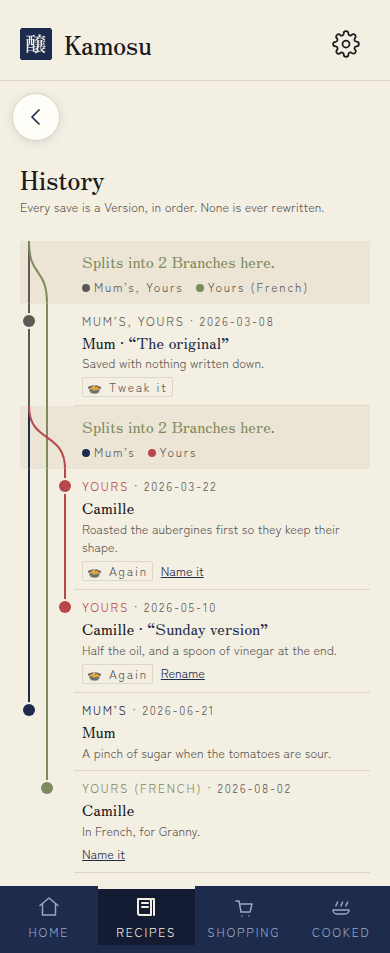
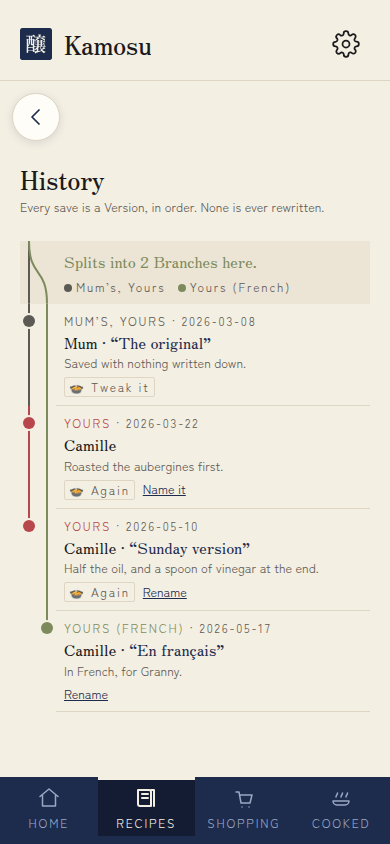
docs: the README keeps its six pictures, with the History and a cooking in two of them
The commit before this one put eight pictures at the top, dropped the recipe
with its photograph from first place, and rewrote more of the README than was
asked. This brings it back to the layout it had:

- The pictures are the six there were, in their places. On the phone, History
  stands where the recipe was and a cooking with its changed lines where
  Shopping was. Both are the height of the others.
- The History holds a Translation.
- The opening says, in order, that every version is kept, that everyone
  writes in their own Cookbook, and that an agent can do what a person can.
  The rest of the README is as it was.

docs/readme/recipe.png and shopping.png are no longer shown. They stay until
a release has published the new Docker Hub page, since the page now live
reads them from main.

Claude-Session: https://claude.ai/code/session_01Stsb9AADG6iuPsFKbsNCgy

diff --git a/README.md b/README.md
@@ -14,68 +14,56 @@
 
 # Kamosu
 
-**A self-hosted cookbook for recipes that keep changing. Kamosu keeps every
-version of a recipe, each time you cooked it, and what you did differently
-that day.**
+**A self-hosted cookbook that keeps every version of your recipes. Nothing you
+change is ever lost, everyone you cook with keeps their own recipes, and your
+AI agent can do everything you can.**
 
-A recipe is never finished. You halve the oil, your mum adds a pinch of sugar,
-and one Sunday the basil goes in because it was there. Kamosu keeps all of it.
-Every save is a new version and none is ever lost. Each cooking is a dated
-entry in a diary, with the lines you changed at the stove, and you can keep
-those as the recipe's next version.
+Kamosu keeps your recipes and every change ever made to them. Every save is a
+new version, so you can open an older one, cook from it, or see line by line
+what has changed since. It keeps each time someone cooked a recipe and how it
+went, with what they did differently that day, and a change that earned its
+place becomes the recipe's next version.
 
-Everyone writes in their own Cookbook. Put the people you cook with in a
+Each person writes in their own Cookbook. Put the people you cook with in a
 Kitchen, your household, your parents, a group of friends, and each of you can
-open and cook everyone else's recipes, while only the person who wrote a
-recipe can change it. Change someone else's and you get your own version
-beside theirs, with every line the two don't share marked.
+open, cook and record how it went for everyone else's recipes, while only the
+person who wrote a recipe can change it. Change someone else's, and you get
+your own version of it, side by side with theirs.
 
-Your AI agent can do everything you can. The web app and the MCP (Model
-Context Protocol) endpoint are built from the same list of operations, so the
-agent you already use can add a recipe it read off a photo, fix one, or
-translate it. Kamosu runs on a machine you own, in one container with one
-folder and one port, and it sends your data nowhere.
-
-<table>
-  <tr>
-    <td width="33%" valign="top" align="center">
-      <img src="docs/readme/history.png" width="250" alt="A recipe's History on a phone: Mum's original at the top, the point where your copy parts from hers, two of your versions with what changed written beside each, a French translation, and how each cooking went">
-      <p align="center"><sub><b>A recipe's History</b>: Mum's original, your changes, a translation, and how each cooking went</sub></p>
-    </td>
-    <td width="33%" valign="top" align="center">
-      <img src="docs/readme/cooked-changed.png" width="250" alt="A cooking in the diary on a phone: more garlic, basil added and a reworded step, each beside the line it replaced, and a button to keep them as a new version">
-      <p align="center"><sub><b>Cooked</b>: what you changed at the stove, to keep if it earned its place</sub></p>
-    </td>
-    <td width="33%" valign="top" align="center">
-      <img src="docs/readme/cooking.png" width="250" alt="Cooking mode on a phone, on one step, with its ingredients to tick off and a timer">
-      <p align="center"><sub><b>Cooking mode</b>: one step and what it uses</sub></p>
-    </td>
-  </tr>
-</table>
+Everything you can do in the web app, an agent can do over MCP (the Model
+Context Protocol), because both are built from the same list of operations.
+Kamosu runs on a machine you own, in one container with one folder and one
+port, and it sends your data nowhere.
 
 <p align="center">
-  <img src="docs/readme/wide-two-versions.png" width="880" alt="Mum's ratatouille read from your copy of it: her olive oil and her pinch of sugar are marked as not yours, and your vinegar and your roasting step are struck through as not in hers">
+  <img src="docs/readme/wide-recipe.png" width="880" alt="A recipe on a computer: a sidebar on the left, the photograph across the top, the ingredients and the method in two columns">
 </p>
-<p align="center"><sub><b>Mum's ratatouille, read from yours</b>: every line the two don't share is marked</sub></p>
+<p align="center"><sub><b>A recipe</b> on a tablet or a computer</sub></p>
 
 <p align="center">
   <img src="docs/readme/wide-cooking.png" width="880" alt="Cooking mode on a tablet: one step in large type, the amounts it uses, a timer, and the next step beside it">
 </p>
-<p align="center"><sub><b>Cooking mode</b> on a tablet: one step, what it uses, the next one</sub></p>
+<p align="center"><sub><b>Cooking mode</b>: one step, what it uses, the next one</sub></p>
 
 <table>
   <tr>
-    <td width="33%" valign="top" align="center">
-      <img src="docs/readme/home-shelves.png" width="250" alt="Home on a phone: recipe shelves for recently added and most cooked">
-      <p align="center"><sub><b>Home</b></sub></p>
+    <td width="50%" valign="top" align="center">
+      <img src="docs/readme/home-shelves.png" width="260" alt="Home on a phone: recipe shelves for recently added and most cooked">
+      <p align="center"><sub><b>Home</b> on a phone</sub></p>
     </td>
-    <td width="33%" valign="top" align="center">
-      <img src="docs/readme/recipe.png" width="250" alt="A recipe page on a phone, with its photo and servings">
-      <p align="center"><sub><b>A recipe</b></sub></p>
+    <td width="50%" valign="top" align="center">
+      <img src="docs/readme/history.png" width="260" alt="A recipe's History on a phone: Mum's original, your two versions with what changed written under each, a French translation, and how each cooking went">
+      <p align="center"><sub><b>History</b></sub></p>
     </td>
-    <td width="33%" valign="top" align="center">
-      <img src="docs/readme/shopping.png" width="250" alt="A shopping list on a phone, worked out from three chosen recipes">
-      <p align="center"><sub><b>Shopping</b></sub></p>
+  </tr>
+  <tr>
+    <td width="50%" valign="top" align="center">
+      <img src="docs/readme/cooking.png" width="260" alt="Cooking mode on a phone, on one step, with its ingredients to tick off and a timer">
+      <p align="center"><sub><b>Cooking mode</b></sub></p>
+    </td>
+    <td width="50%" valign="top" align="center">
+      <img src="docs/readme/cooked-changed.png" width="260" alt="A cooking in the diary on a phone: more garlic, basil added and a reworded step, each above the line it replaced, and a button to keep them as a new version">
+      <p align="center"><sub><b>Cooked</b></sub></p>
     </td>
   </tr>
 </table>
@@ -100,16 +88,6 @@ folder and one port, and it sends your data nowhere.
 
 ## What you get
 
-- **A recipe keeps its whole history.** Every save is a new version and none is
-  ever lost. Open an older one, cook from it, or carry a line back. Start a
-  variation beside the original, or a translation into another language, and
-  Kamosu shows how two versions differ line by line.
-- **A diary of what you cooked.** Each cooking is an Attempt: dated, rated,
-  with photos, notes, and what you actually did if it differed from the
-  recipe. Keep a change as the recipe's next version when it earned its place.
-- **Kitchens.** Cook from the recipes of everyone you share a Kitchen with, and
-  see how it went when they cooked yours. See
-  [Kitchens and Cookbooks](#kitchens-and-cookbooks).
 - **Cook from your phone, offline.** Cooking mode walks you through the steps
   with the amounts each step needs, lets you tick off ingredients, and turns a
   time in the step text into a timer. Recipes stay readable with no signal, and
@@ -119,6 +97,15 @@ folder and one port, and it sends your data nowhere.
   phone has its tab bar, a recipe in two columns with the ingredients in view
   while the method scrolls, and lists that stay beside what you opened from
   them. Type follows the text size set on the device.
+- **Kitchens.** Cook from the recipes of everyone you share a Kitchen with, and
+  see how it went when they cooked yours. See
+  [Kitchens and Cookbooks](#kitchens-and-cookbooks).
+- **A recipe keeps its whole history.** Every save is a new version and none is
+  ever lost. Start a variation beside the original, or a translation into
+  another language, and Kamosu shows how two versions differ line by line.
+- **A diary of what you cooked.** Each cooking is an Attempt: dated, rated,
+  with photos, notes, and what you actually did if it differed from the
+  recipe. Promote a change into the recipe when it earned its place.
 - **Scaling and conversions.** Cook for 3 instead of 6 and every amount
   follows. Kamosu shows metric or US measures beside the amounts as written,
   and oven temperatures in the other scale.
@@ -178,19 +165,16 @@ only way a recipe reaches someone outside your Kitchens.
 
 ## Who it is for
 
-Kamosu suits people who change a recipe a little each time they cook it and
-want to see how it got to where it is. That can be one person, a household, or
-a family spread over several homes. They keep their recipes on their own
-server, cook from a phone, and let an agent add, fix or translate recipes for
-them.
+Kamosu suits a person, a household or a group of people who want to keep their
+recipes on their own server, cook from a phone, and let an agent add, fix or
+translate recipes for them.
 
 It is not:
 
 - **A hosted service.** There is no Kamosu cloud and no sync between servers.
   Recipes move between instances as files or Share Links.
-- **A meal planner or nutrition tracker.** There is no weekly plan and no
-  pantry, and each person's shopping list is their own. A recipe can carry one
-  calorie figure you typed. Kamosu never calculates nutrition from ingredients.
+- **A meal planner or nutrition tracker.** A recipe can carry one calorie
+  figure you typed. Kamosu never calculates nutrition from ingredients.
 - **A public recipe site.** There is no signup. Every account starts from an
   invite, and nothing is visible to strangers unless you share a link.
 - **Finished.** This is 0.2.0. It is used in one kitchen, and nobody else has

diff --git a/docs/docker-hub/overview.md b/docs/docker-hub/overview.md
@@ -2,37 +2,35 @@
 
 # Kamosu
 
-**A self-hosted cookbook for recipes that keep changing. Kamosu keeps every version of a recipe, each time you cooked it, and what you did differently that day.**
+**A self-hosted cookbook that keeps every version of your recipes. Nothing you change is ever lost, everyone you cook with keeps their own recipes, and your AI agent can do everything you can.**
 
-A recipe is never finished. You halve the oil, your mum adds a pinch of sugar, and one Sunday the basil goes in because it was there. Kamosu keeps all of it. Every save is a new version and none is ever lost. Each cooking is a dated entry in a diary, with the lines you changed at the stove, and you can keep those as the recipe's next version.
+Kamosu keeps your recipes and every change ever made to them. Every save is a new version, so you can open an older one, cook from it, or see line by line what has changed since. It keeps each time someone cooked a recipe and how it went, with what they did differently that day, and a change that earned its place becomes the recipe's next version.
 
-Everyone writes in their own Cookbook. Put the people you cook with in a Kitchen, your household, your parents, a group of friends, and each of you can open and cook everyone else's recipes, while only the person who wrote a recipe can change it. Change someone else's and you get your own version beside theirs, with every line the two don't share marked.
+Each person writes in their own Cookbook. Put the people you cook with in a Kitchen, your household, your parents, a group of friends, and each of you can open, cook and record how it went for everyone else's recipes, while only the person who wrote a recipe can change it. Change someone else's, and you get your own version of it, side by side with theirs.
 
-Your AI agent can do everything you can. The web app and the MCP (Model Context Protocol) endpoint are built from the same list of operations. Kamosu runs on a machine you own, in one container with one folder and one port, and it sends your data nowhere.
+Everything you can do in the web app, an agent can do over MCP (the Model Context Protocol), because both are built from the same list of operations. Kamosu runs on a machine you own, in one container with one folder and one port, and it sends your data nowhere.
 
-![Mum's ratatouille read from your copy of it: her olive oil and her pinch of sugar are marked as not yours, and your vinegar and your roasting step are struck through as not in hers](https://raw.githubusercontent.com/BatterWorks/Kamosu/main/docs/readme/wide-two-versions.png)
+![A recipe on a computer: a sidebar on the left, the photograph across the top, the ingredients and the method in two columns](https://raw.githubusercontent.com/BatterWorks/Kamosu/main/docs/readme/wide-recipe.png)
 
-**Mum's ratatouille, read from yours**: every line the two don't share is marked
+**A recipe** on a tablet or a computer
 
 | | |
 | --- | --- |
-| ![A recipe's History: Mum's original, the point where your copy parts from hers, your versions with what changed beside each, a French translation, and how each cooking went](https://raw.githubusercontent.com/BatterWorks/Kamosu/main/docs/readme/history.png) | ![A cooking in the diary: more garlic, basil added and a reworded step, each beside the line it replaced, and a button to keep them as a new version](https://raw.githubusercontent.com/BatterWorks/Kamosu/main/docs/readme/cooked-changed.png) |
-| **A recipe's History**: Mum's original, your changes, a translation, and how each cooking went | **Cooked**: what you changed at the stove, to keep if it earned its place |
-| ![Cooking mode on one step, with its ingredients to tick off](https://raw.githubusercontent.com/BatterWorks/Kamosu/main/docs/readme/cooking.png) | ![A recipe page with its photo and servings](https://raw.githubusercontent.com/BatterWorks/Kamosu/main/docs/readme/recipe.png) |
-| **Cooking mode**: one step and what it uses | **A recipe** |
-| ![Home: recipe shelves for recently added and most cooked](https://raw.githubusercontent.com/BatterWorks/Kamosu/main/docs/readme/home-shelves.png) | ![A shopping list worked out from three chosen recipes](https://raw.githubusercontent.com/BatterWorks/Kamosu/main/docs/readme/shopping.png) |
-| **Home**: shelves worked out from what you cook | **Shopping**, added up from the recipes you chose |
+| ![Home: recipe shelves for recently added and most cooked](https://raw.githubusercontent.com/BatterWorks/Kamosu/main/docs/readme/home-shelves.png) | ![A recipe's History: Mum's original, your two versions with what changed under each, a French translation, and how each cooking went](https://raw.githubusercontent.com/BatterWorks/Kamosu/main/docs/readme/history.png) |
+| **Home**: shelves worked out from what you cook | **History**: every version of a recipe, and how each cooking went |
+| ![Cooking mode on one step, with its ingredients to tick off](https://raw.githubusercontent.com/BatterWorks/Kamosu/main/docs/readme/cooking.png) | ![A cooking in the diary: more garlic, basil added and a reworded step, each above the line it replaced, and a button to keep them as a new version](https://raw.githubusercontent.com/BatterWorks/Kamosu/main/docs/readme/cooked-changed.png) |
+| **Cooking mode**: one step and what it uses | **Cooked**: what you changed at the stove, to keep as a new version |
 
 - **Source and full README:** https://github.com/BatterWorks/Kamosu
 - **Changelog:** https://github.com/BatterWorks/Kamosu/blob/main/CHANGELOG.md
 
 ## What you get
 
-- **A recipe keeps its whole history.** Every save is a new version and none is ever lost. Open an older one, cook from it, or carry a line back. Start a variation or a translation beside the original, and Kamosu shows how two versions differ line by line.
-- **A diary of what you cooked.** Each cooking is dated and rated, with photos, notes, and what you actually did if it differed from the recipe. Keep a change as the recipe's next version when it earned its place.
-- **Kitchens.** Cook from the recipes of everyone you share a Kitchen with, and see how it went when they cooked yours.
 - **Cook from your phone, offline.** Cooking mode walks you through the steps with the amounts each step needs, lets you tick off ingredients, and turns a time in the step text into a timer. Install it to your home screen like an app.
 - **On a tablet or a computer too.** A wider window gets a sidebar where the phone has its tab bar, and a recipe in two columns.
+- **Kitchens.** Cook from the recipes of everyone you share a Kitchen with, and see how it went when they cooked yours.
+- **A recipe keeps its whole history.** Every save is a new version and none is ever lost. Start a variation or a translation beside the original, and Kamosu shows how two versions differ line by line.
+- **A diary of what you cooked.** Each cooking is dated and rated, with photos, notes, and what you actually did if it differed from the recipe.
 - **Scaling and conversions.** Cook for 3 instead of 6 and every amount follows, with metric or US measures beside the amounts as written.
 - **A shopping list worked out from recipes.** Pick dishes and how many you are cooking for. Flour from three recipes becomes one row.
 - **Search by words, or by meaning.** Turn on Meaning Search and "that thing with aubergines" finds a recipe that never says aubergine.
@@ -43,7 +41,7 @@ Your AI agent can do everything you can. The web app and the MCP (Model Context 
 
 ## Who it is for
 
-Kamosu suits people who change a recipe a little each time they cook it and want to see how it got to where it is: one person, a household, or a family spread over several homes. They keep their recipes on their own server, cook from a phone, and let an agent add, fix or translate recipes for them.
+Kamosu suits a person, a household or a group of people who want to keep their recipes on their own server, cook from a phone, and let an agent add, fix or translate recipes for them.
 
 It is not a hosted service, a meal planner, a nutrition tracker or a public recipe site. Every account starts from an invite, and nothing is visible to strangers unless you share a link.
 
